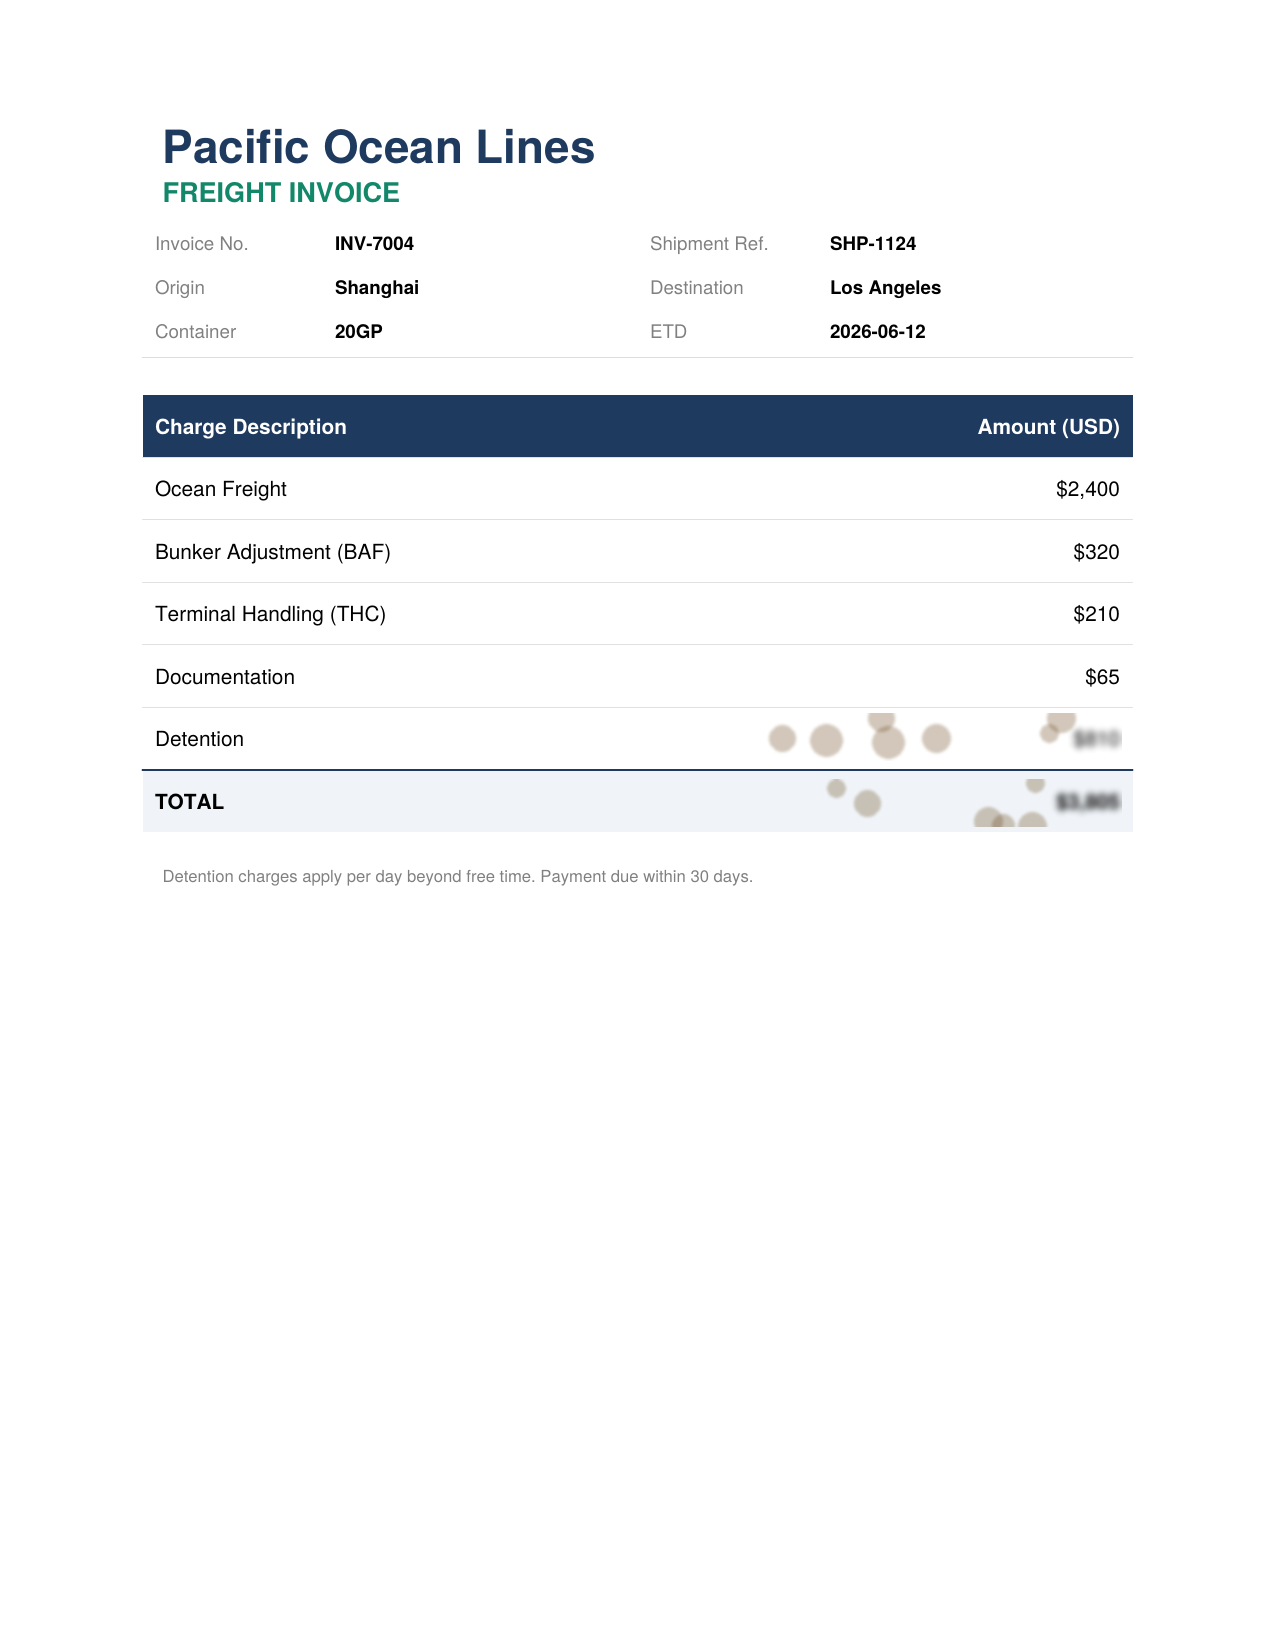
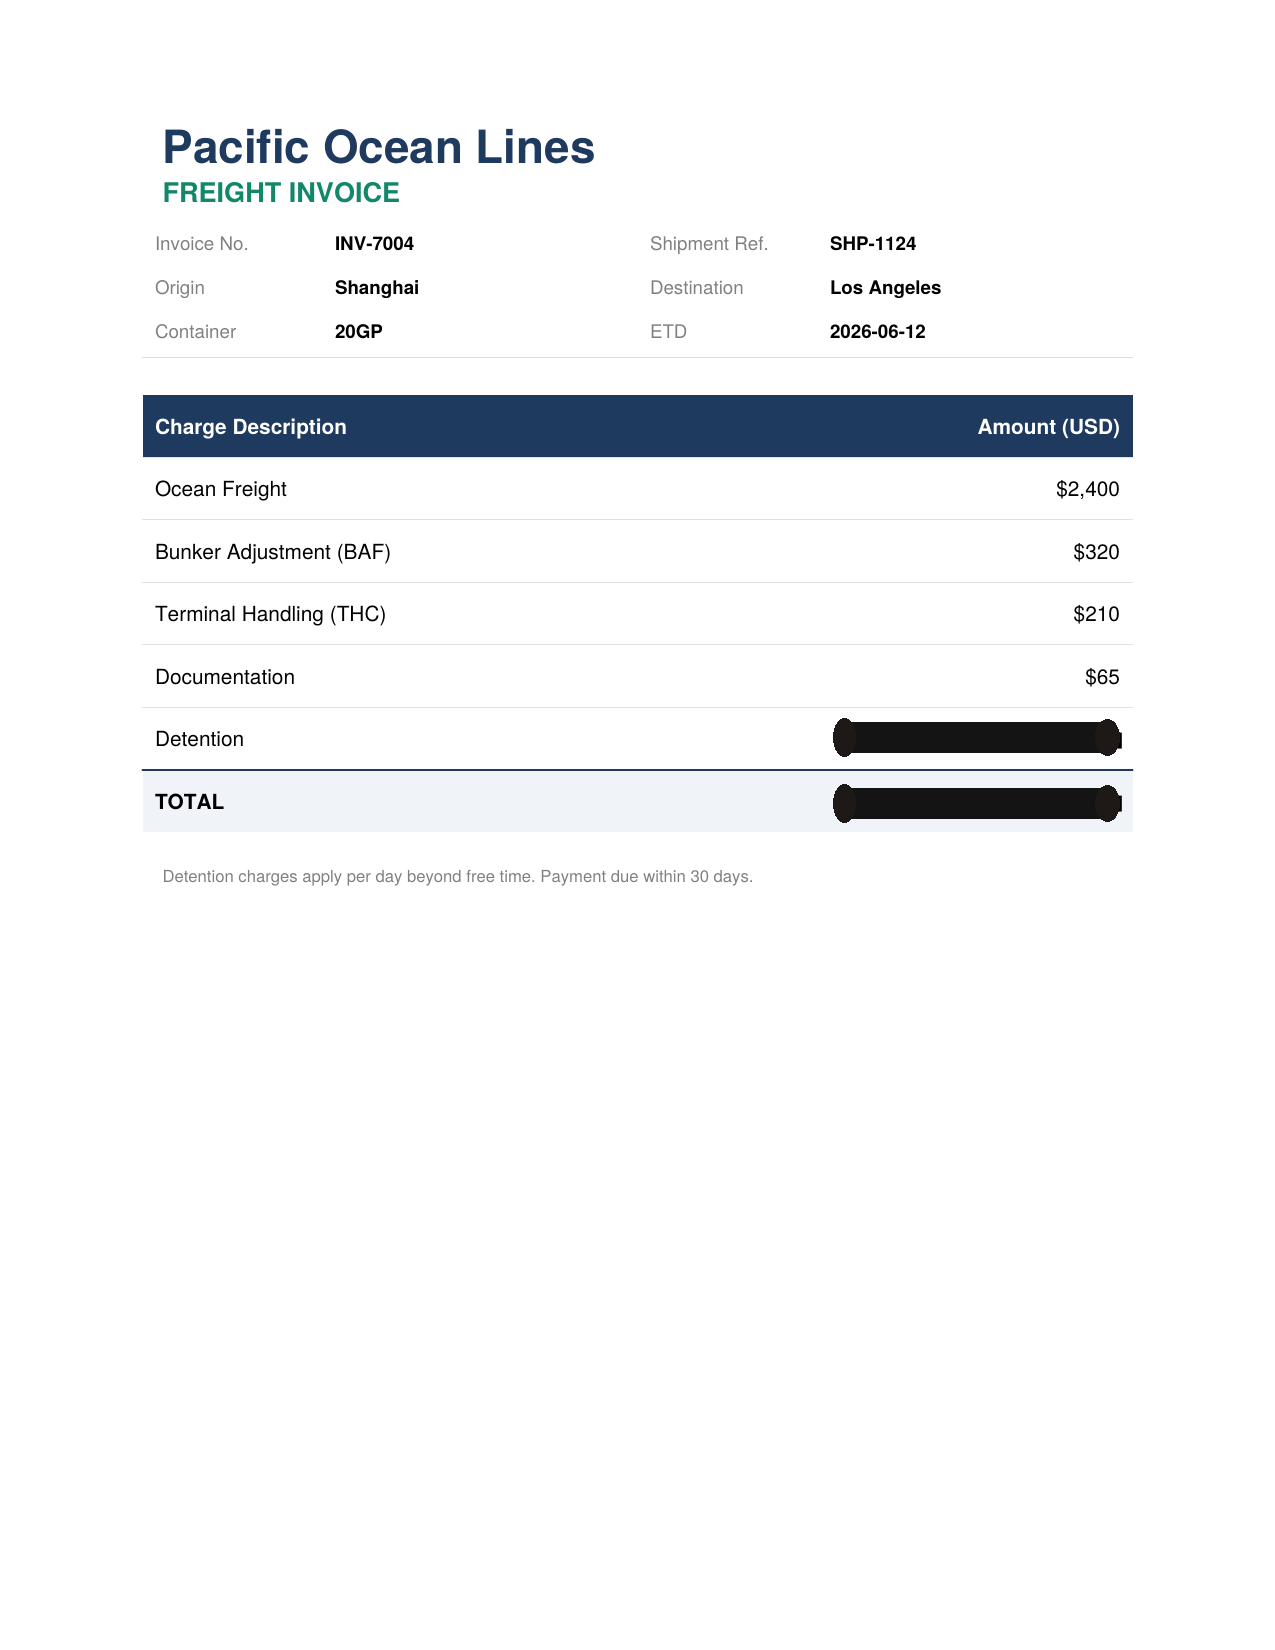
Add files via upload

Changed region(s): [[0.5812, 0.4327, 0.8871, 0.5255]]

diff --git a/server.js b/server.js
@@ -5,7 +5,7 @@ const path = require("path");
 
 const app = express();
 app.use(express.json({ limit: "25mb" }));
-app.use(express.static(path.join(__dirname, "public")));
+app.use(express.static(__dirname));
 
 const db = new Database(path.join(__dirname, "freight.db"), { readonly: true });
 
@@ -167,9 +167,9 @@ function askVision(apiKey, mediaType, base64Data) {
         { type: "text", text:
           "This is a freight invoice. Extract these fields and return ONLY a JSON object, no markdown, no explanation:\n" +
           "{ invoice_id, shipment_id, carrier, origin, destination, charges: { ocean_freight, baf, thc, documentation, detention }, total, currency }\n" +
-          "For each charge, use the numeric amount only (no currency symbol). For every charge also include a confidence 0-1 in a parallel object called confidence with the same charge keys.\n" +
-          "IMPORTANT: If a charge amount is visually smudged, blurred, obscured, or otherwise hard to read with certainty, you MUST set its confidence below 0.5 — even if you could guess it. Do NOT infer an obscured amount from the total or from the other charges; if you cannot clearly read the digits themselves, it is low confidence. Read only what is actually legible.\n" +
-          "Return exactly: { fields: {...}, confidence: {...} }" }
+          "For each charge, use the numeric amount only (no currency symbol). Also return a FLAT object called confidence whose keys are exactly ocean_freight, baf, thc, documentation, detention and whose values are 0-1 numbers. Do NOT nest confidence under 'charges'.\n" +
+          "CRITICAL RULES for unreadable amounts: If a charge amount is smudged, blurred, obscured, stained, or you cannot clearly read the actual digits, you MUST (a) set that charge's value to null, and (b) set its confidence to 0.3 or lower. NEVER output 0 or a guessed number for an amount you cannot actually read — 0 is a real value and must only be used when the invoice clearly shows zero. Do NOT infer an obscured amount from the total or from the other charges.\n" +
+          "Return exactly: { fields: { ...all fields..., charges: {...} }, confidence: { ocean_freight:.., baf:.., thc:.., documentation:.., detention:.. } }" }
       ]
     }]
   });
@@ -201,7 +201,20 @@ app.post("/api/extract", async (req, res) => {
   if (!data || !mediaType) return res.status(400).json({ error: "No file provided." });
   try {
     const out = await askVision(apiKey, mediaType, data);
-    res.json({ ok: true, ...out });
+    // Normalize: guarantee a FLAT confidence object keyed by charge name, no matter how the model nested it.
+    const CHARGES = ["ocean_freight", "baf", "thc", "documentation", "detention"];
+    const charges = (out.fields && out.fields.charges) || {};
+    let conf = out.confidence || {};
+    if (conf.charges && typeof conf.charges === "object") conf = conf.charges; // un-nest if the model nested it
+    const flatConf = {};
+    for (const k of CHARGES) {
+      let c = conf[k];
+      const v = charges[k];
+      // If value is missing/null (model couldn't read it), force low confidence regardless of what it claimed.
+      if (v === null || v === undefined || v === "") { c = Math.min(c != null ? c : 0.3, 0.3); }
+      flatConf[k] = (typeof c === "number") ? c : 0.95;
+    }
+    res.json({ ok: true, fields: out.fields, confidence: flatConf });
   } catch (e) {
     res.status(502).json({ error: "Vision extraction failed: " + e.message });
   }

diff --git a/index.html b/index.html
@@ -341,6 +341,7 @@ function Card({
         className: "exfix"
       }, /*#__PURE__*/React.createElement("input", {
         className: "fixin",
+        placeholder: "enter amount",
         defaultValue: v == null ? "" : v,
         onBlur: e => onFixField(m.id, k, e.target.value)
       }), /*#__PURE__*/React.createElement("span", {
